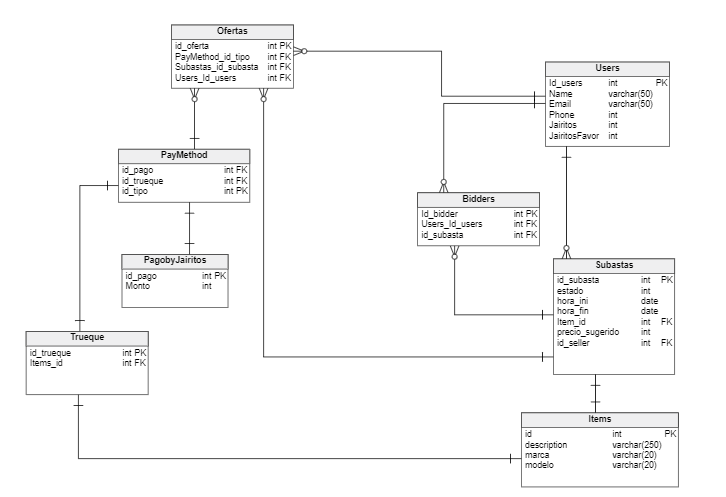
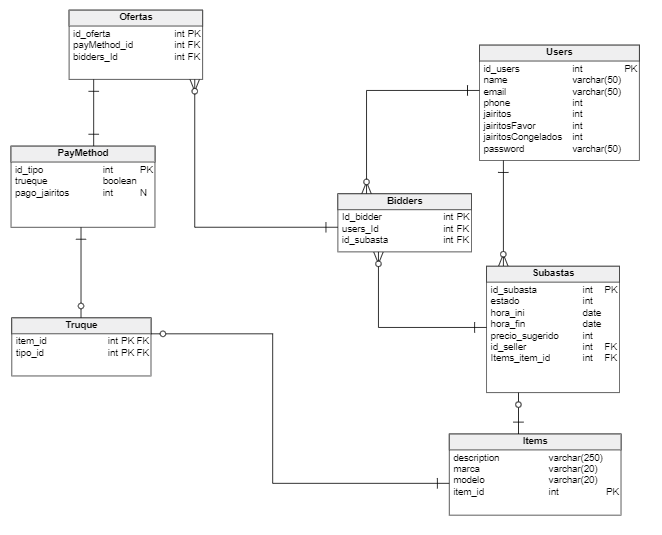
FaltaConexionDB

diff --git a/src/main/java/edu/eci/arsw/model/User.java b/src/main/java/edu/eci/arsw/model/User.java
@@ -4,22 +4,23 @@ import javax.persistence.Entity;
 import javax.persistence.GeneratedValue;
 import javax.persistence.GenerationType;
 import javax.persistence.Id;
+import javax.persistence.Table;
 
 @Entity
 public class User {
-	int jairitos, jairitosCongelados, jairitosBenefit;
-	String name, number, addres;
+	private int jairitos, jairitosCongelados, jairitosBenefit;
+	private String name, number, addres, password;
 
 	@Id
 	@GeneratedValue(strategy = GenerationType.AUTO)
-	long id;
+	private long id;
 
 	public User() {
-		// TODO Auto-generated constructor stub
+		
 	}
 
 	public User(long id, String name, String number, String addres, int jairitos, int jairitosCongelados,
-			int jairitosBenefit) {
+			int jairitosBenefit, String password) {
 
 		this.id = id;
 		this.name = name;
@@ -28,7 +29,16 @@ public class User {
 		this.jairitos = jairitos;
 		this.jairitosBenefit = jairitosBenefit;
 		this.jairitosCongelados = jairitosCongelados;
+		this.password = password;
 
+	}
+	
+	public String getPassword() {
+		return password;
+	}
+
+	public void setPassword(String password) {
+		this.password = password;
 	}
 
 	public String getAddres() {

diff --git a/src/main/java/edu/eci/arsw/repository/UserRepository.java b/src/main/java/edu/eci/arsw/repository/UserRepository.java
@@ -1,13 +1,13 @@
 package edu.eci.arsw.repository;
 
+import org.springframework.data.repository.CrudRepository;
 import org.springframework.data.repository.PagingAndSortingRepository;
 import org.springframework.data.rest.core.annotation.RepositoryRestResource;
 
 import edu.eci.arsw.model.User;
 
-@RepositoryRestResource(collectionResourceRel = "users", path = "users")
-public interface UserRepository extends PagingAndSortingRepository<User, Long>  {
+public interface UserRepository extends CrudRepository<User, Long>  {
 	
-	
+		
 	
 }

diff --git a/src/main/java/edu/eci/arsw/persistence/ipml/InMerySuperEasyPersistence.java b/src/main/java/edu/eci/arsw/persistence/ipml/InMerySuperEasyPersistence.java
@@ -12,14 +12,14 @@ import edu.eci.arsw.repository.UserRepository;
 @Component("superEasyPersistence")
 public class InMerySuperEasyPersistence implements SuperEasyPersistence {
 
-	@Autowired
-	BiddingRepository br;
+//	@Autowired
+//	BiddingRepository br;
+//
+//	@Autowired
+//	SubastasReposiroty sr;
 
 	@Autowired
-	SubastasReposiroty sr;
-
-	@Autowired
-	UserRepository ur;
+	private UserRepository ur;
 
 	@Override
 	public void createUser(User user) {

diff --git a/src/main/java/edu/eci/arsw/controllers/SuperEasyAPIController.java b/src/main/java/edu/eci/arsw/controllers/SuperEasyAPIController.java
@@ -16,8 +16,8 @@ public class SuperEasyAPIController {
 	@Autowired
 	private SuperEasyServices superEasyServices;
 	
-	@PostMapping("{name}")
-	public ResponseEntity<?> postUser(@PathVariable String name, @RequestBody User user) {
+	@PostMapping("user")
+	public ResponseEntity<?> postUser(@RequestBody User user) {
 
 		superEasyServices.createUser(user);
 
